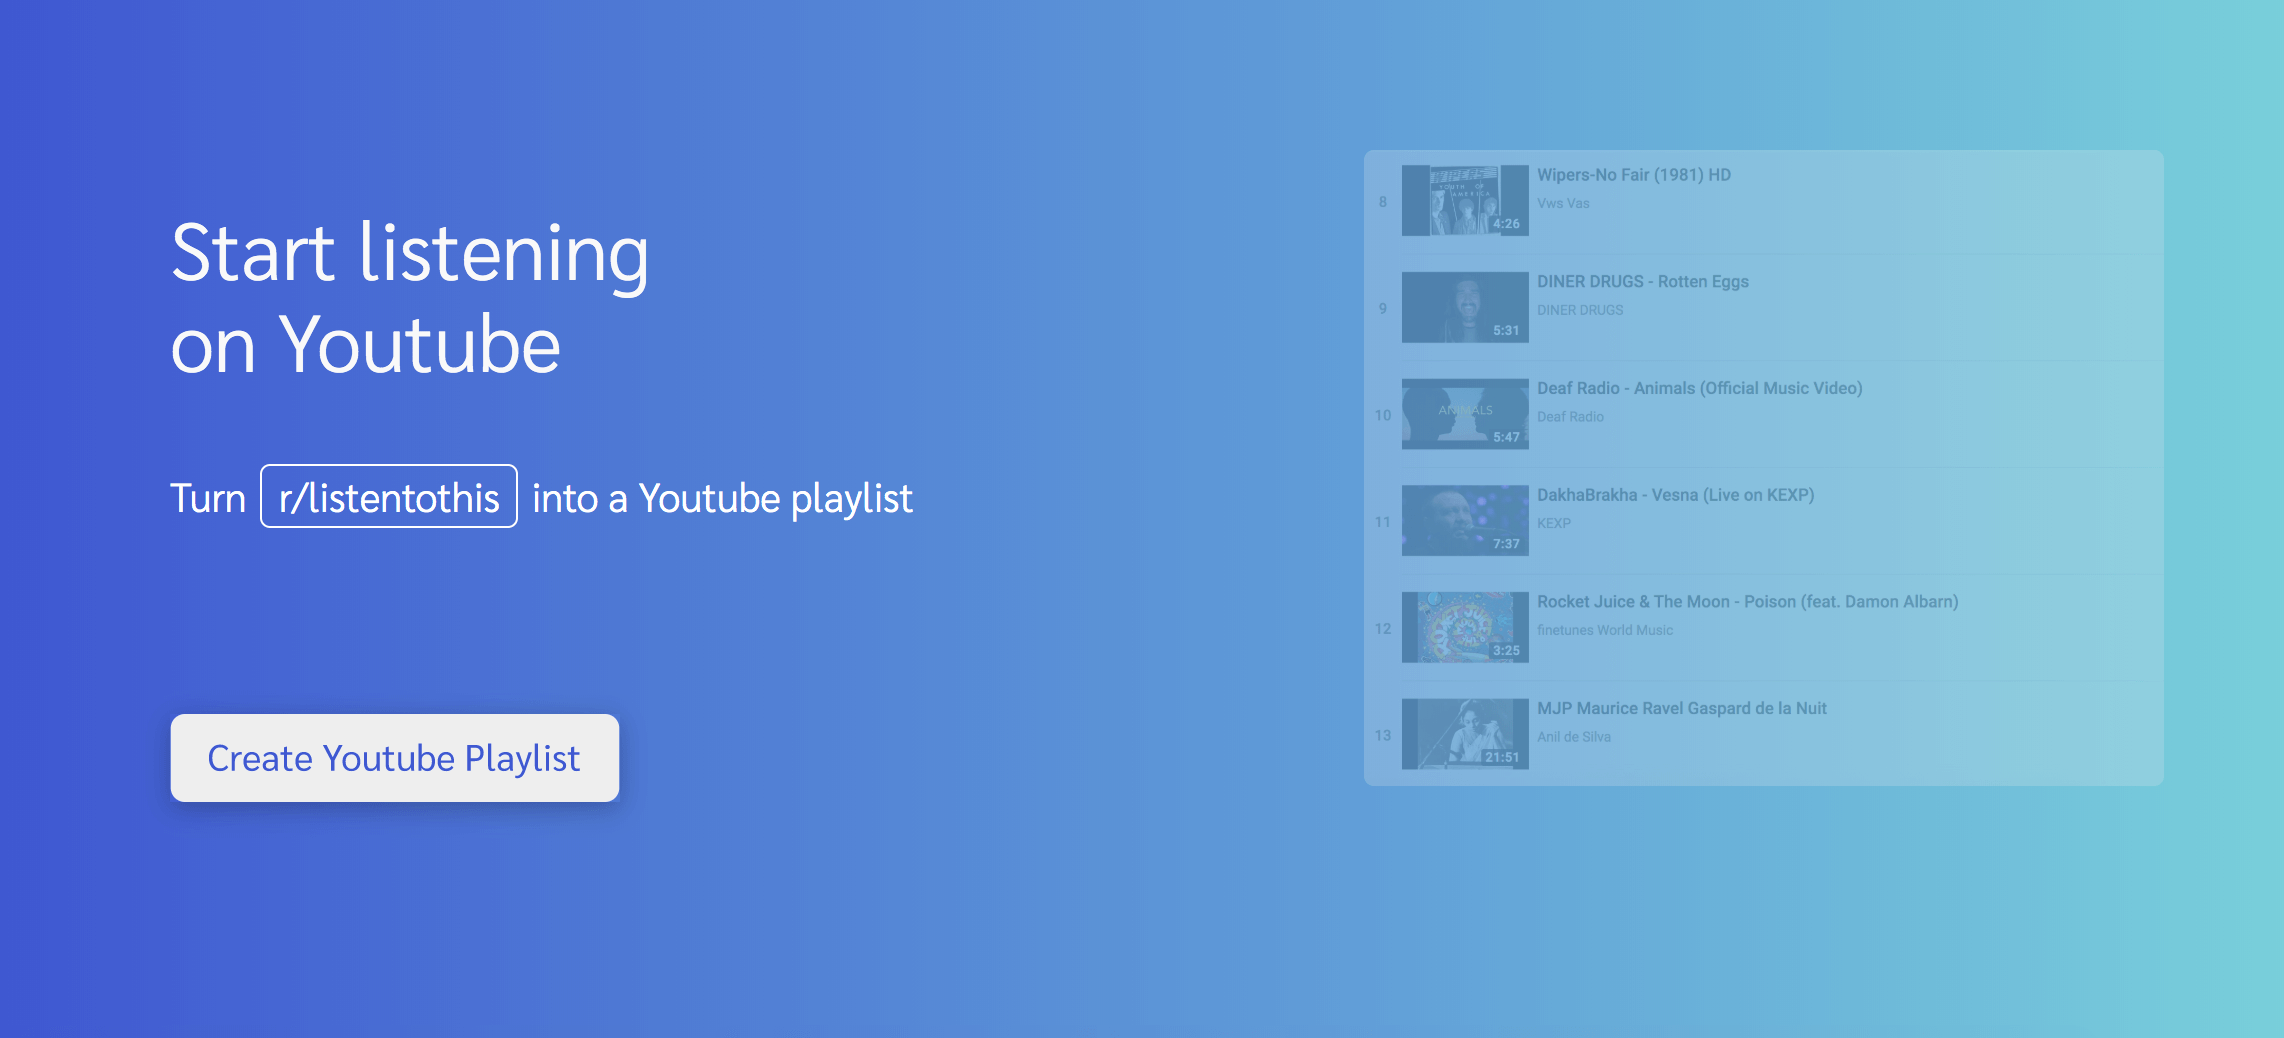
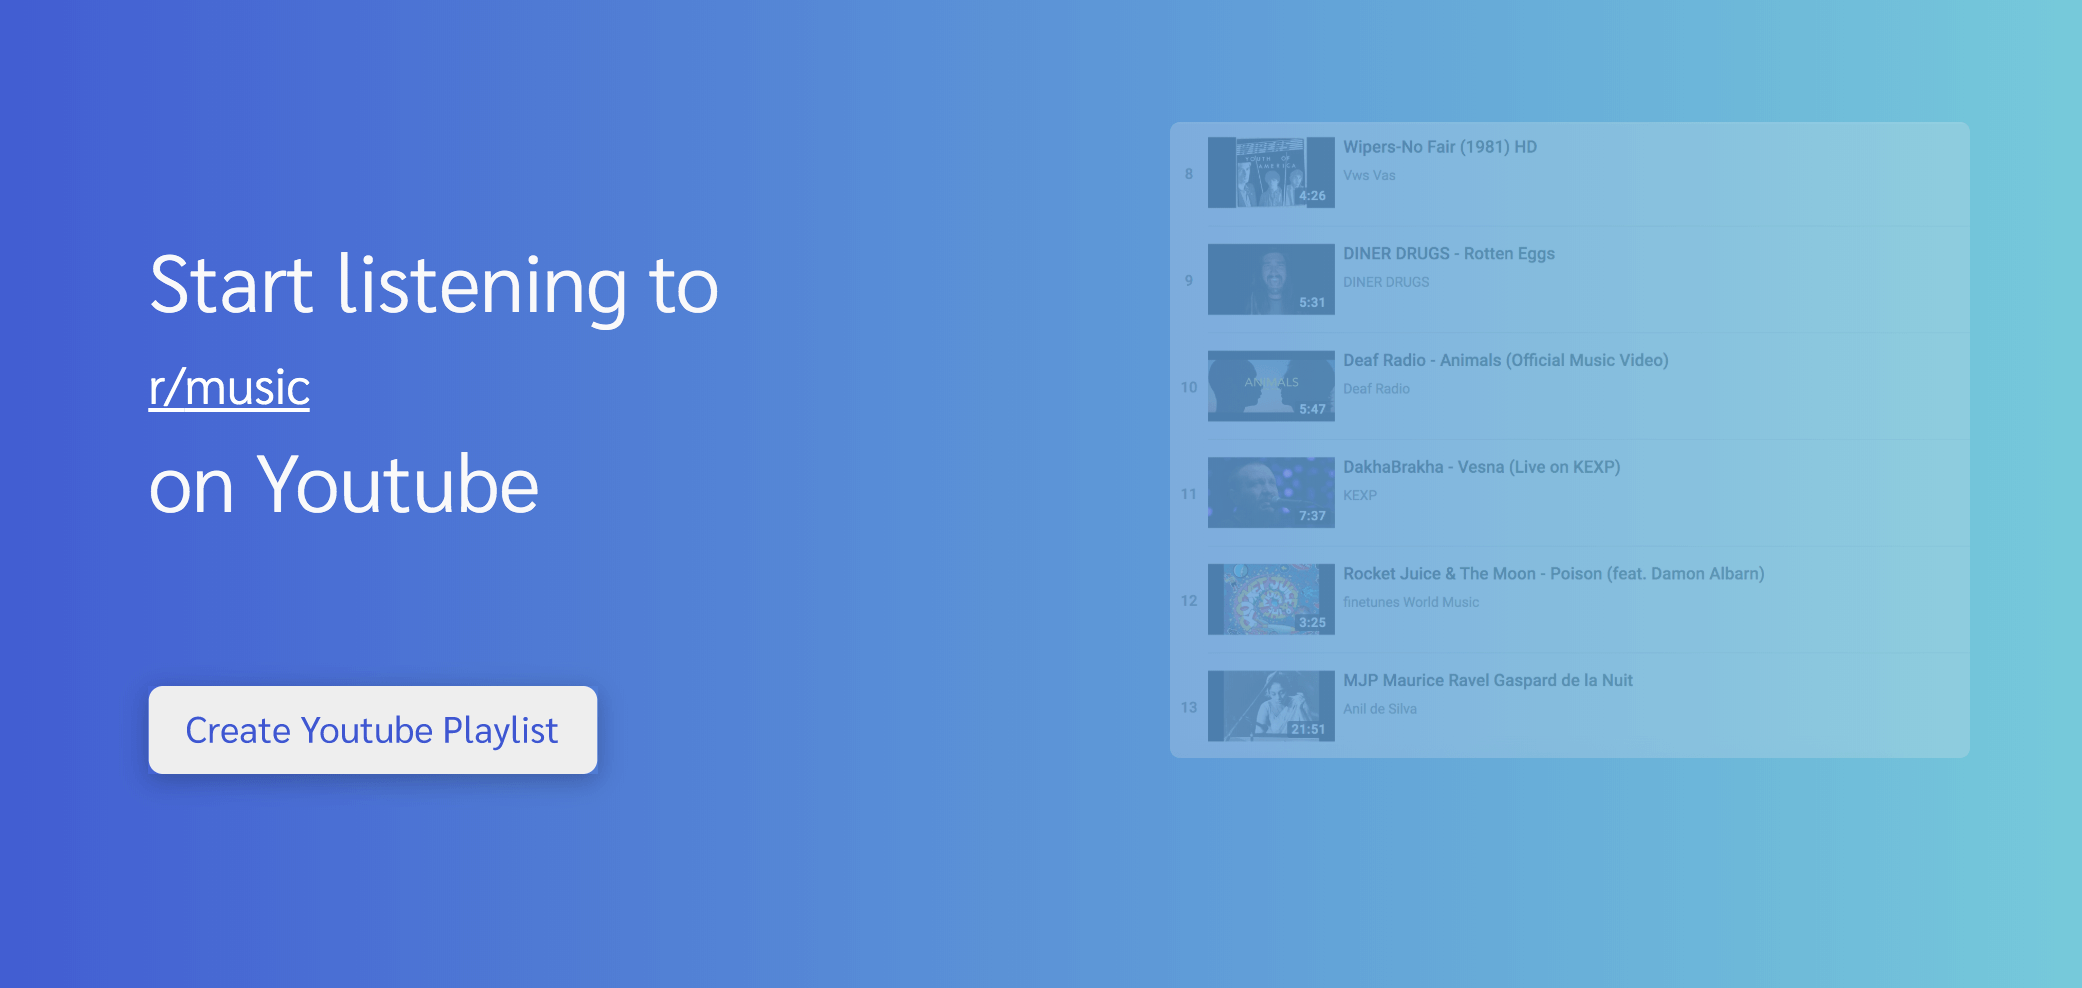
header

diff --git a/components/header/style.scss b/components/header/style.scss
@@ -57,27 +57,20 @@
     color: #F9F9F9;
     font-weight: 300;
     margin: 40px 0;
-    margin-top: 30px;
     line-height: 1.15;
+    margin-top: 60px;
+
+    & a{
+      @include link;
+      margin: 10px 0;
+      font-size: 25px;
+      display: inline-block;
+      text-decoration: underline;
+    }
 
     @media(max-width: $break-desktop-big){
       font-size: 1.75rem;
     }
-  }
-
-  & p{
-    font-size: 1.25rem;
-    color: white;
-    line-height: 1.666;
-
-    & a{
-      @include link;
-      border: 1px solid #FFFFFF;
-      border-radius: 5px;
-      padding: 2px 8px;
-      margin: 0 7px;
-    }
-
   }
 
   & .header-playlist-btn{

diff --git a/components/header/header-text.js b/components/header/header-text.js
@@ -14,18 +14,15 @@ class HeaderText extends React.Component {
     return (
       <div>
         <h1>
-          Start listening
+          Start listening to
           <br />
-          <span> on Youtube</span>
-        </h1>
-        <p>
-          Turn
           <a href="https://reddit.com/r/listentothis" target="_blank" rel="noopener noreferrer">
             r/
             {subreddit}
           </a>
-          into a Youtube playlist
-        </p>
+          <br />
+          <span> on Youtube</span>
+        </h1>
       </div>
     );
   }
